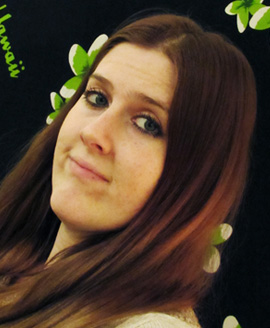
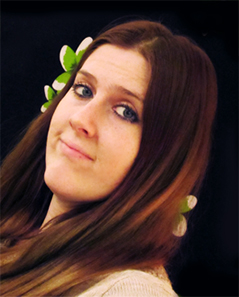
Removed image zoom function due to mobile scrolling issue. Uploaded new about image.

diff --git a/css/agency.min.css b/css/agency.min.css
@@ -1,1 +1,1 @@
-.btn-primary,h1,h2,h3,h4,h5,h6{font-weight:700}body{overflow-x:hidden;font-family:"Roboto Slab","Helvetica Neue",Helvetica,Arial,sans-serif;webkit-tap-highlight-color:#60be6c}.btn-primary,.btn-xl,h1,h2,h3,h4,h5,h6{font-family:Montserrat,"Helvetica Neue",Helvetica,Arial,sans-serif;text-transform:uppercase}.text-muted{color:#888}.text-primary,a,a.active,a:active,a:focus,a:hover{color:#60be6c}p{font-size:15px;line-height:1.65}p.large{font-size:16px}a,a.active,a:active,a:focus,a:hover{outline:0}a{transition:all .3s ease 0s}.img-centered{margin:0 auto}.bg-light-gray{background:url(../img/agsquare.png)}.btn-primary.active,.btn-primary:active,.btn-xl.active,.btn-xl:active,.open .dropdown-toggle.btn-primary,.open .dropdown-toggle.btn-xl{background-image:none}.bg-darkest-gray{background-color:#222}.btn-primary.active,.btn-primary:active,.btn-primary:focus,.btn-primary:hover,.open .dropdown-toggle.btn-primary{color:#fff;background-color:#60be6c;border-color:#f6bf01}.btn-primary.disabled,.btn-primary.disabled.active,.btn-primary.disabled:active,.btn-primary.disabled:focus,.btn-primary.disabled:hover,.btn-primary[disabled],.btn-primary[disabled].active,.btn-primary[disabled]:active,.btn-primary[disabled]:focus,.btn-primary[disabled]:hover,fieldset[disabled] .btn-primary,fieldset[disabled] .btn-primary.active,fieldset[disabled] .btn-primary:active,fieldset[disabled] .btn-primary:focus,fieldset[disabled] .btn-primary:hover{background-color:#60be6c;border-color:#60be6c}.btn-primary .badge{color:#60be6c;background-color:#fff}.btn-xl{border-radius:4px;background-color:#F7AA26;color:#333;font-size:14px;font-weight:600;margin:40px 0;padding:14px 40px}.btn-xl.active,.btn-xl:active,.btn-xl:focus,.btn-xl:hover,.open .dropdown-toggle.btn-xl{background-color:#F7BE27}.btn-xl.disabled,.btn-xl.disabled.active,.btn-xl.disabled:active,.btn-xl.disabled:focus,.btn-xl.disabled:hover,.btn-xl[disabled],.btn-xl[disabled].active,.btn-xl[disabled]:active,.btn-xl[disabled]:focus,.btn-xl[disabled]:hover,fieldset[disabled] .btn-xl,fieldset[disabled] .btn-xl.active,fieldset[disabled] .btn-xl:active,fieldset[disabled] .btn-xl:focus,fieldset[disabled] .btn-xl:hover{background-color:#60be6c;border-color:#60be6c}.btn-xl .badge{color:#60be6c;background-color:#fff}#tohash .fa-angle-down{display:none}.navbar-default{background-color:rgba(34,34,34,.9);border-color:transparent}.navbar-default .navbar-brand{color:#FFF;font-family:"Josefin+Sans","Helvetica Neue",Helvetica,Arial,cursive}.navbar-default .navbar-brand.active,.navbar-default .navbar-brand:active,.navbar-default .navbar-brand:focus,.navbar-default .navbar-brand:hover{color:#F7AA26}.navbar-default .navbar-collapse{border-color:rgba(255,255,255)}.navbar-default .navbar-toggle{background-color:#60be6c;border-color:#60be6c}.navbar-default .navbar-toggle .icon-bar{background-color:#fff}.navbar-default .navbar-toggle:focus,.navbar-default .navbar-toggle:hover{background-color:#60be6c}.navbar-default .nav li a{font-family:Montserrat,"Helvetica Neue",Helvetica,Arial,sans-serif;text-transform:uppercase;font-weight:400;letter-spacing:1px;color:#fff}.navbar-default .nav li a:focus,.navbar-default .nav li a:hover{color:#F7AA26;outline:0}.navbar-default .navbar-nav>.active>a{border-radius:0;color:#fff;background-color:#60be6c}.navbar-default.navbar-shrink{background-color:rgba(34,34,34,1)}.navbar-default .navbar-nav>.active>a:focus,.navbar-default .navbar-nav>.active>a:hover{color:#fff;background-color:#60be6c}@media (min-width:768px){.navbar-default{background-color:rgba(34,34,34,.7);padding:25px 0;-webkit-transition:padding .3s;-moz-transition:padding .3s;transition:padding .3s;border:0}.navbar-default .navbar-brand{font-size:2em;-webkit-transition:all .3s;-moz-transition:all .3s;transition:all .3s}.navbar-default .navbar-nav>.active>a{border-radius:3px}.navbar-default.navbar-shrink{background-color:rgba(34,34,34,1);padding:10px 0}.navbar-default.navbar-shrink .navbar-brand{font-size:1.5em}#tohash .fa-angle-down{position:absolute;left:50%;bottom:50px;color:#fff;display:inline-block;width:24px;margin-left:-12px;font-size:24px;line-height:24px;z-index:999;-webkit-animation:bounce 3s infinite;animation:bounce 3s infinite}}header{background-image:url(../img/header-bg.jpg);background-repeat:none;background-attachment:scroll;background-position:center center;-webkit-background-size:cover;-moz-background-size:cover;background-size:cover;-o-background-size:cover;text-align:center;color:#fff}header .intro-text{padding-top:165px;padding-bottom:50px}header .intro-text .intro-lead-in{font-family:"Droid Serif","Helvetica Neue",Helvetica,Arial,sans-serif;font-style:italic;font-size:27px;line-height:22px;margin-bottom:25px}header .intro-text .intro-heading{font-family:Montserrat,"Helvetica Neue",Helvetica,Arial,sans-serif;text-transform:uppercase;font-weight:700;font-size:50px;line-height:50px;margin-bottom:25px}@media (min-width:768px){header .intro-text{padding-top:405px;padding-bottom:405px}header .intro-text .intro-lead-in{font-family:"Droid Serif","Helvetica Neue",Helvetica,Arial,sans-serif;font-style:italic;font-size:35px;line-height:40px;margin-bottom:25px}header .intro-text .intro-heading{font-family:Montserrat,"Helvetica Neue",Helvetica,Arial,sans-serif;text-transform:uppercase;font-weight:700;font-size:60px;line-height:75px;margin-bottom:25px}}#portfolio .portfolio-item .portfolio-caption p,.portfolio-modal .modal-content p.item-intro,section h3.section-subheading{font-family:"Droid Serif","Helvetica Neue",Helvetica,Arial,sans-serif;font-style:italic}section{padding:70px 0}section h2.section-heading{font-size:40px;margin-top:0;margin-bottom:15px}section h3.section-subheading{font-size:16px;text-transform:none;font-weight:400;margin-bottom:50px}.service-heading{margin:15px 0;text-transform:none}@media (min-width:320px){section{padding:50px 0}}#portfolio .portfolio-item{margin:0 0 15px;right:0}#portfolio .portfolio-item .portfolio-link{display:block;position:relative;max-width:400px;margin:0 auto}#portfolio .portfolio-item .portfolio-link .portfolio-hover{background:rgba(247,170,38,.9);position:absolute;width:100%;height:100%;opacity:0;transition:all ease .5s;-webkit-transition:all ease .5s;-moz-transition:all ease .5s}#portfolio .portfolio-item .portfolio-link .portfolio-hover:hover{opacity:1}#portfolio .portfolio-item .portfolio-link .portfolio-hover .portfolio-hover-content{position:absolute;width:100%;height:20px;font-size:20px;text-align:center;top:50%;margin-top:-12px;color:#fff}#portfolio .portfolio-item .portfolio-link .portfolio-hover .portfolio-hover-content i{margin-top:-12px}#portfolio .portfolio-item .portfolio-link .portfolio-hover .portfolio-hover-content h3,#portfolio .portfolio-item .portfolio-link .portfolio-hover .portfolio-hover-content h4{margin:0}#portfolio .portfolio-item .portfolio-caption{max-width:400px;margin:0 auto;background-color:#333;text-align:center;padding:25px}#portfolio .portfolio-item .portfolio-caption h4{text-transform:none;margin:0;color:#f4f4f4;line-height:1.8;font-size:20px}#portfolio .portfolio-item .portfolio-caption p{font-size:16px;margin:0;color:#aaa}#portfolio *{z-index:2}@media (min-width:767px){#portfolio .portfolio-item{margin:0 0 30px}#portfolio .portfolio-item .portfolio-caption,#portfolio .portfolio-item .portfolio-link{max-width:800px}}.portfolio-modal .modal-content{border-radius:0;background-clip:border-box;-webkit-box-shadow:none;box-shadow:none;border:0;min-height:100%;padding:20px 0;text-align:center}.portfolio-modal .modal-content h2{margin-bottom:30px;font-size:3em}.portfolio-modal .modal-content p{margin-bottom:30px}.portfolio-modal .modal-content p.item-intro{margin:20px 0 30px;font-size:16px}.portfolio-modal .modal-content ul.list-inline{margin-bottom:30px;margin-top:0}.portfolio-modal .modal-content img{margin-bottom:30px}.portfolio-modal .close-modal{width:75px;height:50px;margin:0 auto;background-color:transparent;cursor:pointer}.portfolio-modal .close-modal:hover{opacity:.3}.portfolio-modal .close-modal .lr{height:75px;width:1px;margin-left:35px;background-color:#f4f4f4;transform:rotate(45deg);-ms-transform:rotate(45deg);-webkit-transform:rotate(45deg);z-index:1051}.portfolio-modal .close-modal .lr .rl{height:75px;width:1px;background-color:#f4f4f4;transform:rotate(90deg);-ms-transform:rotate(90deg);-webkit-transform:rotate(90deg);z-index:1052}.portfolio-modal .modal-backdrop{opacity:0;display:none}.zoom img,.zoom:after{display:block}::-moz-selection{text-shadow:none;background:#60be6c}::selection{text-shadow:none;background:#60be6c}img::selection{background:0 0}img::-moz-selection{background:0 0}.zoom p{position:absolute;top:3px;right:28px;padding:5px;color:#555;background-color:#fff;font:700 13px/1 sans-serif}footer span.copyright,footer ul.quicklinks{font-family:Montserrat,"Helvetica Neue",Helvetica,Arial,sans-serif}.zoom:after{content:'';width:33px;height:33px;position:absolute;top:0;right:0;background:url(../img/icon.png)}.zoom img::selection{background-color:transparent}.timeline{list-style:none;padding:0;position:relative}.timeline:before{top:0;bottom:0;position:absolute;content:"";width:2px;left:40px;margin-left:-1.5px}.timeline>li{position:relative;min-height:50px}.timeline>li:after,.timeline>li:before{content:" ";display:table}.timeline>li:after{clear:both}.timeline>li .timeline-panel{width:100%;float:right;padding:0 20px 20px;position:relative;text-align:left}.timeline>li .timeline-panel:before{border-left-width:0;border-right-width:15px;left:-15px;right:auto}.timeline>li .timeline-panel:after{border-left-width:0;border-right-width:14px;left:-14px;right:auto}.timeline>li .timeline-image{height:328px;width:270px;margin:0 auto;overflow:hidden}@media (min-width:768px){.timeline:before{left:50%}.timeline>li{min-height:100px}.timeline>li .timeline-panel{width:60%;float:left}.timeline>li .timeline-image{float:left;height:328px;width:270px;margin:0 auto}}@media (min-width:992px){.timeline>li{min-height:150px}.timeline>li .timeline-panel{width:65%;padding:30px 30px 20px 20px}}@media (min-width:1200px){.timeline>li{min-height:170px}.timeline>li .timeline-panel{padding:30px 30px 20px 90px}}#google-map{height:350px}footer{padding:25px 0;text-align:center}footer span.copyright{line-height:40px;text-transform:uppercase;text-transform:none}footer ul.quicklinks{margin-bottom:0;line-height:40px;text-transform:uppercase;text-transform:none}ul.social-buttons{margin-bottom:0}ul.social-buttons li a{display:block;background-color:#222;height:40px;width:40px;border-radius:100%;font-size:20px;line-height:40px;color:#fff;outline:0;-webkit-transition:all .3s;-moz-transition:all .3s;transition:all .3s}ul.social-buttons li a:active,ul.social-buttons li a:focus,ul.social-buttons li a:hover{background-color:#60be6c}.btn.active,.btn:active,.btn:active:focus,.btn:focus{outline:0}
+.btn-primary,h1,h2,h3,h4,h5,h6{font-weight:700}body{overflow-x:hidden;font-family:"Roboto Slab","Helvetica Neue",Helvetica,Arial,sans-serif;webkit-tap-highlight-color:#60be6c}.btn-primary,.btn-xl,h1,h2,h3,h4,h5,h6{font-family:Montserrat,"Helvetica Neue",Helvetica,Arial,sans-serif;text-transform:uppercase}.text-muted{color:#888}.text-primary,a,a.active,a:active,a:focus,a:hover{color:#60be6c}p{font-size:15px;line-height:1.65}p.large{font-size:16px}a,a.active,a:active,a:focus,a:hover{outline:0}a{transition:all .3s ease 0s}.img-centered{margin:0 auto}.bg-light-gray{background:url(../img/agsquare.png)}.btn-primary.active,.btn-primary:active,.btn-xl.active,.btn-xl:active,.open .dropdown-toggle.btn-primary,.open .dropdown-toggle.btn-xl{background-image:none}.bg-darkest-gray{background-color:#222}.btn-primary.active,.btn-primary:active,.btn-primary:focus,.btn-primary:hover,.open .dropdown-toggle.btn-primary{color:#fff;background-color:#60be6c;border-color:#f6bf01}.btn-primary.disabled,.btn-primary.disabled.active,.btn-primary.disabled:active,.btn-primary.disabled:focus,.btn-primary.disabled:hover,.btn-primary[disabled],.btn-primary[disabled].active,.btn-primary[disabled]:active,.btn-primary[disabled]:focus,.btn-primary[disabled]:hover,fieldset[disabled] .btn-primary,fieldset[disabled] .btn-primary.active,fieldset[disabled] .btn-primary:active,fieldset[disabled] .btn-primary:focus,fieldset[disabled] .btn-primary:hover{background-color:#60be6c;border-color:#60be6c}.btn-primary .badge{color:#60be6c;background-color:#fff}.btn-xl{border-radius:4px;background-color:#F7AA26;color:#333;font-size:14px;font-weight:600;margin:40px 0;padding:14px 40px}.btn-xl.active,.btn-xl:active,.btn-xl:focus,.btn-xl:hover,.open .dropdown-toggle.btn-xl{background-color:#F7BE27}.btn-xl.disabled,.btn-xl.disabled.active,.btn-xl.disabled:active,.btn-xl.disabled:focus,.btn-xl.disabled:hover,.btn-xl[disabled],.btn-xl[disabled].active,.btn-xl[disabled]:active,.btn-xl[disabled]:focus,.btn-xl[disabled]:hover,fieldset[disabled] .btn-xl,fieldset[disabled] .btn-xl.active,fieldset[disabled] .btn-xl:active,fieldset[disabled] .btn-xl:focus,fieldset[disabled] .btn-xl:hover{background-color:#60be6c;border-color:#60be6c}.btn-xl .badge{color:#60be6c;background-color:#fff}#tohash .fa-angle-down{display:none}.navbar-default{background-color:rgba(34,34,34,.9);border-color:transparent}.navbar-default .navbar-brand{color:#FFF;font-family:"Josefin+Sans","Helvetica Neue",Helvetica,Arial,cursive}.navbar-default .navbar-brand.active,.navbar-default .navbar-brand:active,.navbar-default .navbar-brand:focus,.navbar-default .navbar-brand:hover{color:#F7AA26}.navbar-default .navbar-collapse{border-color:rgba(255,255,255)}.navbar-default .navbar-toggle{background-color:#60be6c;border-color:#60be6c}.navbar-default .navbar-toggle .icon-bar{background-color:#fff}.navbar-default .navbar-toggle:focus,.navbar-default .navbar-toggle:hover{background-color:#60be6c}.navbar-default .nav li a{font-family:Montserrat,"Helvetica Neue",Helvetica,Arial,sans-serif;text-transform:uppercase;font-weight:400;letter-spacing:1px;color:#fff}.navbar-default .nav li a:focus,.navbar-default .nav li a:hover{color:#F7AA26;outline:0}.navbar-default .navbar-nav>.active>a{border-radius:0;color:#fff;background-color:#60be6c}.navbar-default.navbar-shrink{background-color:rgba(34,34,34,1)}.navbar-default .navbar-nav>.active>a:focus,.navbar-default .navbar-nav>.active>a:hover{color:#fff;background-color:#60be6c}@media (min-width:768px){.navbar-default{background-color:rgba(34,34,34,.7);padding:25px 0;-webkit-transition:padding .3s;-moz-transition:padding .3s;transition:padding .3s;border:0}.navbar-default .navbar-brand{font-size:2em;-webkit-transition:all .3s;-moz-transition:all .3s;transition:all .3s}.navbar-default .navbar-nav>.active>a{border-radius:3px}.navbar-default.navbar-shrink{background-color:rgba(34,34,34,1);padding:10px 0}.navbar-default.navbar-shrink .navbar-brand{font-size:1.5em}#tohash .fa-angle-down{position:absolute;left:50%;bottom:50px;color:#fff;display:inline-block;width:24px;margin-left:-12px;font-size:24px;line-height:24px;z-index:999;-webkit-animation:bounce 3s infinite;animation:bounce 3s infinite}}header{background-image:url(../img/header-bg.jpg);background-repeat:none;background-attachment:scroll;background-position:center center;-webkit-background-size:cover;-moz-background-size:cover;background-size:cover;-o-background-size:cover;text-align:center;color:#fff}header .intro-text{padding-top:170px;padding-bottom:50px}header .intro-text .intro-lead-in{font-family:"Droid Serif","Helvetica Neue",Helvetica,Arial,sans-serif;font-style:italic;font-size:27px;line-height:22px;margin-bottom:25px}header .intro-text .intro-heading{font-family:Montserrat,"Helvetica Neue",Helvetica,Arial,sans-serif;text-transform:uppercase;font-weight:700;font-size:50px;line-height:50px;margin-bottom:25px}@media (min-width:768px){header .intro-text{padding-top:405px;padding-bottom:405px}header .intro-text .intro-lead-in{font-family:"Droid Serif","Helvetica Neue",Helvetica,Arial,sans-serif;font-style:italic;font-size:35px;line-height:40px;margin-bottom:25px}header .intro-text .intro-heading{font-family:Montserrat,"Helvetica Neue",Helvetica,Arial,sans-serif;text-transform:uppercase;font-weight:700;font-size:60px;line-height:75px;margin-bottom:25px}}#portfolio .portfolio-item .portfolio-caption p,.portfolio-modal .modal-content p.item-intro,section h3.section-subheading{font-family:"Droid Serif","Helvetica Neue",Helvetica,Arial,sans-serif;font-style:italic}section{padding:70px 0}section h2.section-heading{font-size:40px;margin-top:0;margin-bottom:15px}section h3.section-subheading{font-size:16px;text-transform:none;font-weight:400;margin-bottom:50px}.service-heading{margin:15px 0;text-transform:none}@media (min-width:320px){section{padding:50px 0}}#portfolio .portfolio-item{margin:0 0 15px;right:0}#portfolio .portfolio-item .portfolio-link{display:block;position:relative;max-width:400px;margin:0 auto}#portfolio .portfolio-item .portfolio-link .portfolio-hover{background:rgba(247,170,38,.9);position:absolute;width:100%;height:100%;opacity:0;transition:all ease .5s;-webkit-transition:all ease .5s;-moz-transition:all ease .5s}#portfolio .portfolio-item .portfolio-link .portfolio-hover:hover{opacity:1}#portfolio .portfolio-item .portfolio-link .portfolio-hover .portfolio-hover-content{position:absolute;width:100%;height:20px;font-size:20px;text-align:center;top:50%;margin-top:-12px;color:#fff}#portfolio .portfolio-item .portfolio-link .portfolio-hover .portfolio-hover-content i{margin-top:-12px}#portfolio .portfolio-item .portfolio-link .portfolio-hover .portfolio-hover-content h3,#portfolio .portfolio-item .portfolio-link .portfolio-hover .portfolio-hover-content h4{margin:0}#portfolio .portfolio-item .portfolio-caption{max-width:400px;margin:0 auto;background-color:#333;text-align:center;padding:25px}#portfolio .portfolio-item .portfolio-caption h4{text-transform:none;margin:0;color:#f4f4f4;line-height:1.8;font-size:20px}#portfolio .portfolio-item .portfolio-caption p{font-size:16px;margin:0;color:#aaa}#portfolio *{z-index:2}@media (min-width:767px){#portfolio .portfolio-item{margin:0 0 30px}#portfolio .portfolio-item .portfolio-caption,#portfolio .portfolio-item .portfolio-link{max-width:800px}}.portfolio-modal .modal-content{border-radius:0;background-clip:border-box;-webkit-box-shadow:none;box-shadow:none;border:0;min-height:100%;padding:20px 0;text-align:center}.portfolio-modal .modal-content h2{margin-bottom:30px;font-size:3em}.portfolio-modal .modal-content p{margin-bottom:30px}.portfolio-modal .modal-content p.item-intro{margin:20px 0 30px;font-size:16px}footer span.copyright,footer ul.quicklinks{font-family:Montserrat,"Helvetica Neue",Helvetica,Arial,sans-serif;line-height:40px}.portfolio-modal .modal-content ul.list-inline{margin-bottom:30px;margin-top:0}.portfolio-modal .modal-content img{margin-bottom:30px}.portfolio-modal .close-modal{width:75px;height:50px;margin:0 auto;background-color:transparent;cursor:pointer}.portfolio-modal .close-modal:hover{opacity:.3}.portfolio-modal .close-modal .lr{height:75px;width:1px;margin-left:35px;background-color:#f4f4f4;transform:rotate(45deg);-ms-transform:rotate(45deg);-webkit-transform:rotate(45deg);z-index:1051}.portfolio-modal .close-modal .lr .rl{height:75px;width:1px;background-color:#f4f4f4;transform:rotate(90deg);-ms-transform:rotate(90deg);-webkit-transform:rotate(90deg);z-index:1052}.portfolio-modal .modal-backdrop{opacity:0;display:none}::-moz-selection{text-shadow:none;background:#60be6c}::selection{text-shadow:none;background:#60be6c}img::selection{background:0 0}img::-moz-selection{background:0 0}.timeline{list-style:none;padding:0;position:relative}.timeline:before{top:0;bottom:0;position:absolute;content:"";width:2px;left:40px;margin-left:-1.5px}.timeline>li{position:relative;min-height:50px}.timeline>li:after,.timeline>li:before{content:" ";display:table}.timeline>li:after{clear:both}.timeline>li .timeline-panel{width:100%;float:right;padding:0 20px 20px;position:relative;text-align:left}.timeline>li .timeline-panel:before{border-left-width:0;border-right-width:15px;left:-15px;right:auto}.timeline>li .timeline-panel:after{border-left-width:0;border-right-width:14px;left:-14px;right:auto}.timeline>li .timeline-image{height:297px;width:239px;margin:0 auto;overflow:hidden}@media (min-width:768px){.timeline:before{left:50%}.timeline>li{min-height:100px}.timeline>li .timeline-panel{width:60%;float:left}.timeline>li .timeline-image{float:left;height:297px;width:239px;margin:0 auto}}@media (min-width:992px){.timeline>li{min-height:150px}.timeline>li .timeline-panel{width:65%;padding:30px 30px 20px 20px}}@media (min-width:1200px){.timeline>li{min-height:170px}.timeline>li .timeline-panel{padding:30px 30px 20px 90px}}#google-map{height:350px}footer{padding:25px 0;text-align:center}footer span.copyright{text-transform:uppercase;text-transform:none}footer ul.quicklinks{margin-bottom:0;text-transform:uppercase;text-transform:none}ul.social-buttons{margin-bottom:0}ul.social-buttons li a{display:block;background-color:#222;height:40px;width:40px;border-radius:100%;font-size:20px;line-height:40px;color:#fff;outline:0;-webkit-transition:all .3s;-moz-transition:all .3s;transition:all .3s}ul.social-buttons li a:active,ul.social-buttons li a:focus,ul.social-buttons li a:hover{background-color:#60be6c}.btn.active,.btn:active,.btn:active:focus,.btn:focus{outline:0}

diff --git a/index.html b/index.html
@@ -6,7 +6,7 @@
     <meta charset="utf-8">
     <meta http-equiv="X-UA-Compatible" content="IE=edge">
     <meta name="viewport" content="width=device-width, initial-scale=1">
-    <meta name="description" content="Noeleen Sisson's portfolio of work and contact information">
+    <meta name="description" content="Noeleen Sisson - portfolio of work and contact information">
     <meta name="author" content="Noeleen Sisson">
 
     <title>Noeleen Sisson Portfolio</title>
@@ -76,7 +76,7 @@
         <div class="container">
             <div class="intro-text">
                 
-                <div class="intro-heading animated fadeInLeftBig">Noeleen BV Sisson</div>
+                <div class="intro-heading animated fadeInLeftBig">Noeleen Sisson</div>
                 <div class="intro-lead-in animated fadeInRightBig">Portfolio</div>
                 <a href="#portfolio" class="page-scroll btn btn-xl animated fadeInDownBig">View</a>
 
@@ -315,10 +315,10 @@
                             <!-- Project Details Go Here -->
                             <h2>Daylesford</h2>
                             <p class="item-intro text-muted">Microsite shop design &amp; development</p>
-                            <div class="zoom portfolio-photo"><img class="img-responsive img-centered" src="img/portfolio/daylesford-preview.jpg" alt="Daylesford microsite shop design &amp; development"><p>Click to Zoom</p></div>
+                            <div class="zoom portfolio-photo"><img class="img-responsive img-centered" src="img/portfolio/daylesford-preview.jpg" alt="Daylesford microsite shop design &amp; development"></div>
                             <p>A responsive microsite shop created for the brand &#8212; Daylesford Organic Farm Gloucestershire.</p>
                             <p>I was involved with the project from kick&#8211;off &#47; concept stage through to completion, responsible for the design, coding and testing. Working alongside a project manager who liaised directly with the client for acquiring assets, feedback and approval. The shop was designed in Fireworks, coded in Dreamweaver and then uploaded on to the Ocado website using an in&#8211;house content management system. Pages were tested on hidden aisle links, signed-off internally and then sent to the client for approval.</p>
-                            <p>The shop features HD video content in drop down banners on various pages, such as on the home and dairy pages.</p>
+                            <p>The shop features HD video content in drop down banners on various pages, such as on the "Home" and "Our Dairy" pages.</p>
                             <p>Live link: <a href="https://www.ocado.com/webshop/getCategories.do?tags=|30489|141334|141333&ad=61943|1162270|12341|1143807" target="blank">https://www.ocado.com/webshop/getCategories.do?tags=|30489|141334|141333&ad=61943|1162270|12341|1143807</a></br>Please note: The shop is not viewable on a mobile phone as the Ocado mobile site does not yet support the microsite shops. Please view it on a desktop computer or tablet.</p>
                             <ul class="list-inline">
                                 <li>Date: 2015</li>
@@ -348,10 +348,10 @@
                             <!-- Project Details Go Here -->
                             <h2>Peroni</h2>
                             <p class="item-intro text-muted">Microsite shop design &amp; development</p>
-                            <div class="zoom portfolio-photo"><img class="img-responsive img-centered" src="img/portfolio/peroni-preview.jpg" alt="Peroni microsite shop design &amp; development"><p>Click to Zoom</p></div>
+                            <div class="zoom portfolio-photo"><img class="img-responsive img-centered" src="img/portfolio/peroni-preview.jpg" alt="Peroni microsite shop design &amp; development"></div>
                             <p>A responsive microsite shop created for the Italian beer brand &#8212; Peroni Nastro Azzurro.</p> 
                             <p>I was involved with the project from kick&#8211;off &#47; concept stage through to completion, responsible for the design, coding and testing. Working alongside a project manager who liaised directly with the client for acquiring assets, feedback and approval. The shop was designed in Fireworks, coded in Dreamweaver and then uploaded on to the Ocado website using an in&#8211;house content management system. Pages were tested on hidden aisle links, signed-off internally and then sent to the client for approval.</p>
-                            <p>The shop features a four frame carousel on the homepage with a pop up window function to add the product to your trolley.</p>
+                            <p>The shop features a four frame carousel on the homepage with a pop up window function providing product information and the ability to add to your trolley.</p>
                             <p>Live link: <a href="https://www.ocado.com/webshop/getCategories.do?tags=12426&ad=66990|1188864|67318|1160109" target="blank">https://www.ocado.com/webshop/getCategories.do?tags=12426&ad=66990|1188864|67318|1160109</a></br>Please note: The shop is not viewable on a mobile phone as the Ocado mobile site does not yet support the microsite shops. Please view it on a desktop computer or tablet.</p>
                             <ul class="list-inline">
                                 <li>Date: 2015</li>
@@ -381,7 +381,7 @@
                             <!-- Project Details Go Here -->
                             <h2>Wolegood</h2>
                             <p class="item-intro text-muted">Microsite shop design &amp; development</p>
-                            <div class="zoom portfolio-photo"><img class="img-responsive img-centered" src="img/portfolio/wholegood-preview.jpg" alt="Wholegood microsite shop design &amp; development"><p>Click to Zoom</p></div>
+                            <div class="zoom portfolio-photo"><img class="img-responsive img-centered" src="img/portfolio/wholegood-preview.jpg" alt="Wholegood microsite shop design &amp; development"></div>
                             <p>A responsive microsite shop for the brand Wholegood &#8212; selling fresh, organic fruit and vegetables.</p> 
                            	<p>I was involved with the project from kick&#8211;off &#47; concept stage through to completion, responsible for the design, coding and testing. Working alongside a project manager who liaised directly with the client for acquiring assets, feedback and approval. The shop was designed in Fireworks, coded in Dreamweaver and then uploaded on to the Ocado website using an in&#8211;house content management system. Pages were tested on hidden aisle links, signed-off internally and then sent to the client for approval.</p>
                            	<p>The shop features drop down sections with video and recipe content.</p> 
@@ -413,13 +413,13 @@
                         <div class="modal-body">
                             <h2>Pampers</h2>
                             <p class="item-intro text-muted">Email design &amp; coding</p>
-                            <div class="zoom portfolio-photo"><img class="img-responsive img-centered" src="img/portfolio/pampers-preview.jpg" alt="Pampers email design &amp; coding"><p>Click to Zoom</p></div>
-                            <p>A baby incentive email that was designed to encourage customers to shop. Customers would have received five free packs of Pampers nappies with their order when they applied the voucher code at checkout.</p>
+                            <div class="zoom portfolio-photo"><img class="img-responsive img-centered" src="img/portfolio/pampers-preview.jpg" alt="Pampers email design &amp; coding"></div>
+                            <p>A baby incentive email that was designed to encourage customers to shop. Customers received five free packs of Pampers nappies with their order when they applied the voucher code at checkout.</p>
                             <p>The email was based on a standard template and followed the look and feel of a baby event that was live on the Ocado website at the time. I was responsible for the design, coding and testing.</p>
                             <p>Designed in Fireworks, coded in Dreamweaver and tested using Litmus and an in&#8211;house platform.</p>
                             <ul class="list-inline">
                                 <li>Date: 2015</li>
-                                <li>Client: Ocado</li>
+                                <li>Client: Ocado &#47; Pampers</li>
                             </ul>
                             <button type="button" class="btn btn-xl" data-dismiss="modal"><i class="fa fa-times"></i> Close Project</button>
                         </div>
@@ -444,8 +444,8 @@
                         <div class="modal-body">
                             <h2>Huggies</h2>
                             <p class="item-intro text-muted">Landing page, directional banner &amp; email design</p>
-                            <div class="zoom portfolio-photo"><img class="img-responsive img-centered" src="img/portfolio/huggies-preview.jpg" alt="Huggies landing page &amp; email design"><p>Click to Zoom</p></div>
-                            <p>An on&#8211;site landing page, directional banner and email project that was created to help customers find alternative nappies to some of the Huggies range that were discontinued. I was responsible for the design.</p>
+                            <div class="zoom portfolio-photo"><img class="img-responsive img-centered" src="img/portfolio/huggies-preview.jpg" alt="Huggies landing page &amp; email design"></div>
+                            <p>An on&#8211;site landing page, directional banner and email project that was created to help customers find alternative nappies to some of the Huggies range that were discontinued. The look and feel was based on a previous baby campaign. I was responsible for the design.</p>
                             <ul class="list-inline">
                                 <li>Date: 2013</li>
                                 <li>Client: Ocado &#47; Huggies</li>
@@ -473,7 +473,7 @@
                         <div class="modal-body">
                             <h2>Ocado</h2>
                             <p class="item-intro text-muted">Banner designs</p>
-                            <div class="zoom portfolio-photo"><img class="img-responsive img-centered" src="img/portfolio/banners-preview.jpg" alt="Banner designs"><p>Click to Zoom</p></div>
+                            <div class="zoom portfolio-photo"><img class="img-responsive img-centered" src="img/portfolio/banners-preview.jpg" alt="Banner designs"></div>
                             <p>Top &#8212; directional banners created to accompany microsite events and shops on the Ocado website ie. The Chelsea Flower Show, Organic event, French shop and the South African shop.</p>
                             <p>Middle &#8212; a print advert designed for the on-site South African Shop.</p>
                             <p>Bottom &#8212; a guide to the different levels of chilli heat and which ones were available to buy on Ocado.</p>
@@ -504,9 +504,9 @@
                         <div class="modal-body">
                             <h2>Ocado</h2>
                             <p class="item-intro text-muted">Christmas microsite shop design</p>
-                            <div class="zoom portfolio-photo"><img class="img-responsive img-centered" src="img/portfolio/christmas-preview.jpg" alt="Christmas microsite shop design"><p>Click to Zoom</p></div>
-                            <p>A responsive microsite shop that was created for the Ocado Christmas event in 2013.</p><p>For this massive project, which consisted of about sixty pages, I worked together with colleagues in art direction, design, copy, photography and development. My responsibilities involved cutting out product shots, page design &#47; layout, ensuring consistency throughout the pages and then final checks once live.</p>
-                            <p>The first two screenshots showing the "Christmas Dinner" and "Decorations &amp; Crackers" pages, depict how the final shop looked. The bottom screenshot shows a landing page concept that I created using icons, which I designed, to represent each category. This concept however did not win approval as product shots were the preffered choice.</p> 
+                            <div class="zoom portfolio-photo"><img class="img-responsive img-centered" src="img/portfolio/christmas-preview.jpg" alt="Christmas microsite shop design"></div>
+                            <p>A responsive microsite shop that was created for the Ocado Christmas event in 2013.</p><p>For this massive project, which consisted of about sixty pages, I worked together with colleagues in art direction, design, copy, photography and development. My responsibilities involved cutting out product shots, page design &#47; layout and final checks once live.</p>
+                            <p>The first two screenshots showing the "Christmas Dinner" and "Decorations &amp; Crackers" pages, are examples of how the final shop looked. The bottom screenshot shows a landing page concept that I created using icons, which I designed, to represent each category &#8212; this however was not used as product shots were the preffered choice.</p> 
                             <ul class="list-inline">
                                 <li>Date: 2013</li>
                                 <li>Client: Ocado</li>
@@ -534,7 +534,7 @@
                         <div class="modal-body">
                             <h2>Talifun</h2>
                             <p class="item-intro text-muted">Website design &amp; development</p>
-                            <div class="zoom portfolio-photo"><img class="img-responsive img-centered" src="img/portfolio/talifun-preview.jpg" alt="Talifun website design &amp; development"><p>Click to Zoom</p></div>
+                            <div class="zoom portfolio-photo"><img class="img-responsive img-centered" src="img/portfolio/talifun-preview.jpg" alt="Talifun website design &amp; development"></div>
                             <p>Website design and build for Talifun Ltd. This site was done as part of a final exam project for an Adobe Dreamweaver and Flash course.</p> 
                             <p>I created all the assets including the logo, icon sets and flash animations. Hand coded the HTML &#47; CSS and implemented basic jQuery into the site to hook up bookmarks &amp; social links, Twitter feeds, Disqus and Beauty of code. Master template pages were first created in Dreamweaver and then moved over into Umbraco (CMS).</p>
                             <p>Live link: <a href="http://www.talifun.com/" target="blank">http://www.talifun.com</a></p>
@@ -565,7 +565,7 @@
                         <div class="modal-body">
                             <h2>Saymama</h2>
                             <p class="item-intro text-muted">A5 flyer design</p>
-                            <div class="zoom portfolio-photo"><img class="img-responsive img-centered" src="img/portfolio/saymama-preview.jpg" alt="Saymama print design"><p>Click to Zoom</p></div>
+                            <div class="zoom portfolio-photo"><img class="img-responsive img-centered" src="img/portfolio/saymama-preview.jpg" alt="Saymama print design"></div>
        						<p>A5 printed flyers that were designed for a startup company called Saymama. The company no longer exists under that name. I recieved the work through a friend.</p>
                             <ul class="list-inline">
                                 <li>Date: 2011</li>
@@ -600,12 +600,6 @@
         <script>
             svgeezy.init(false, 'png');
         </script>
-    <script type="text/javascript" src='js/jquery.zoom.min.js'></script>
-	    <script>
-			$(document).ready(function(){
-				$('.portfolio-photo').zoom({ on:'click' });	
-			});
-		</script>
 
     <!-- Custom Theme JavaScript -->
     <script type="text/javascript" src="js/agency.min.js"></script>

diff --git a/css/agency.css b/css/agency.css
@@ -255,7 +255,7 @@
         color: #fff
     }
     header .intro-text {
-        padding-top: 165px;
+        padding-top: 170px;
         padding-bottom: 50px
     }
     header .intro-text .intro-lead-in {
@@ -497,35 +497,6 @@
         webkit-tap-highlight-color: #60be6c
     }
 
-    /* magnifying glass icon */
-    
-    .zoom p { 
-        position: absolute; 
-        top: 3px; 
-        right: 28px; 
-        padding: 5px;
-        color: #555; 
-        background-color: #fff;
-        font:bold 13px/1 sans-serif;
-    }
-
-    .zoom:after {
-        content: '';
-        display: block;
-        width: 33px;
-        height: 33px;
-        position: absolute;
-        top: 0;
-        right: 0;
-        background: url("../img/icon.png");
-    }
-    .zoom img {
-        display: block;
-    }
-    .zoom img::selection {
-        background-color: transparent;
-    }
-
     /**/
 
     /*/ ----- ABOUT SECTION ----- /*/
@@ -576,8 +547,8 @@
         right: auto
     }
     .timeline>li .timeline-image {
-        height: 328px;
-        width: 270px;
+        height: 297px;
+        width: 239px;
         margin: 0 auto;
         overflow: hidden;
     }
@@ -597,8 +568,8 @@
         }
         .timeline>li .timeline-image {
             float: left;
-            height: 328px;
-            width: 270px;
+            height: 297px;
+            width: 239px;
             margin: 0 auto;
         }
     }
